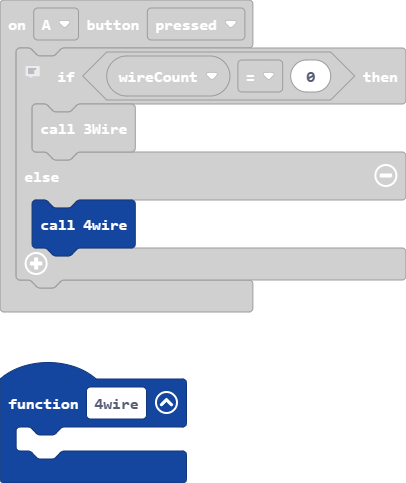
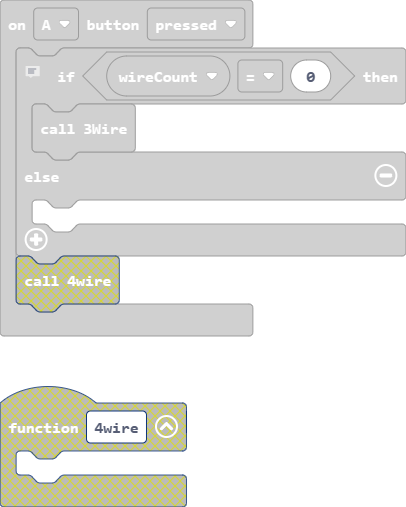
Update main.blocks, main.ts

diff --git a/main.ts b/main.ts
@@ -21,7 +21,7 @@ controller.A.onEvent(ControllerButtonEvent.Pressed, function () {
     if (wireCount == 0) {
         _3Wire()
     } else {
-        _4wire()
+    	
     }
 })
 function InitSerial () {
@@ -112,9 +112,6 @@ controller.right.onEvent(ControllerButtonEvent.Pressed, function () {
     mySprite2 = sprites.create(WireSprites[cursorPos], SpriteKind.Wire)
     mySprite2.top = Math.floor(120 / Ratio) * (cursorPos + 1)
 })
-function _4wire () {
-	
-}
 sprites.onCreated(SpriteKind.Wire, function (sprite) {
     sprite.setFlag(SpriteFlag.Ghost, true)
 })
